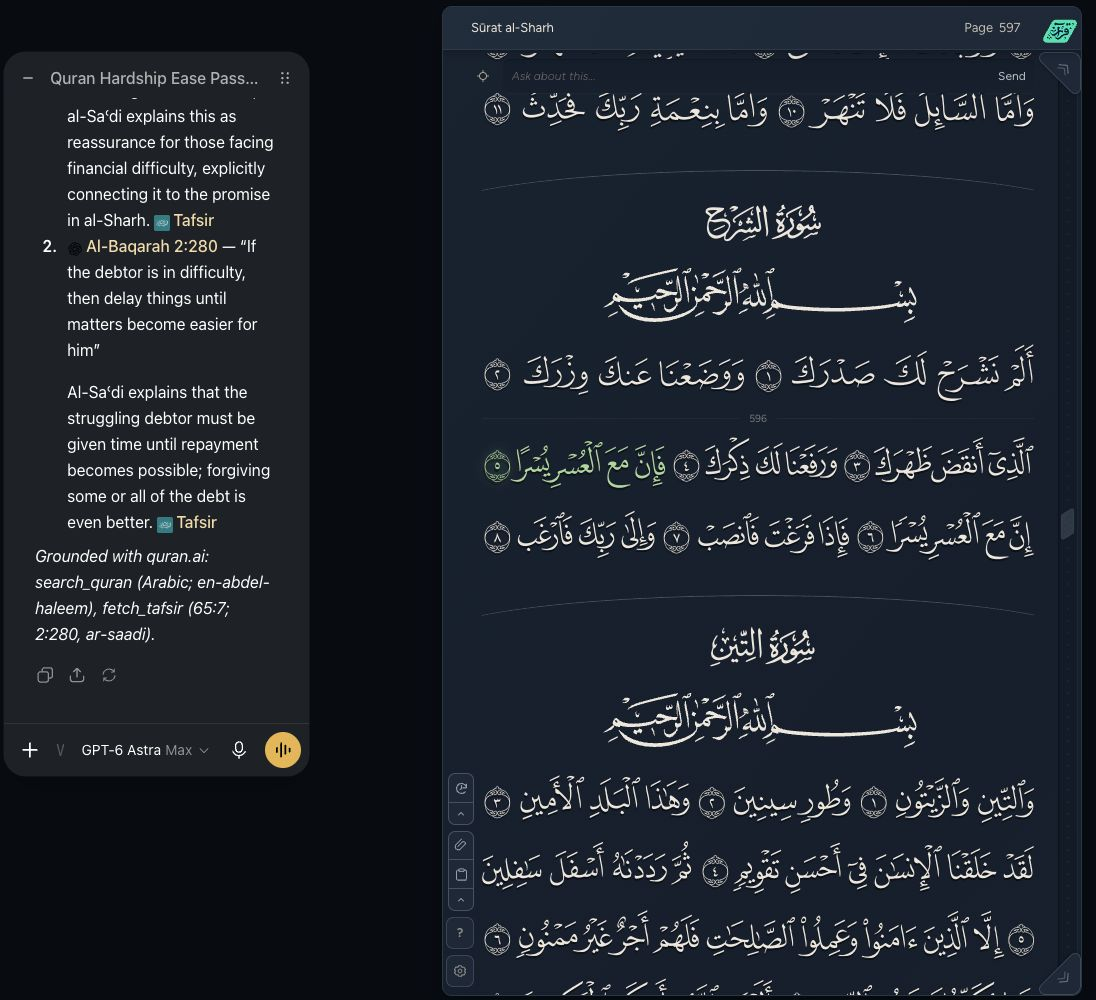
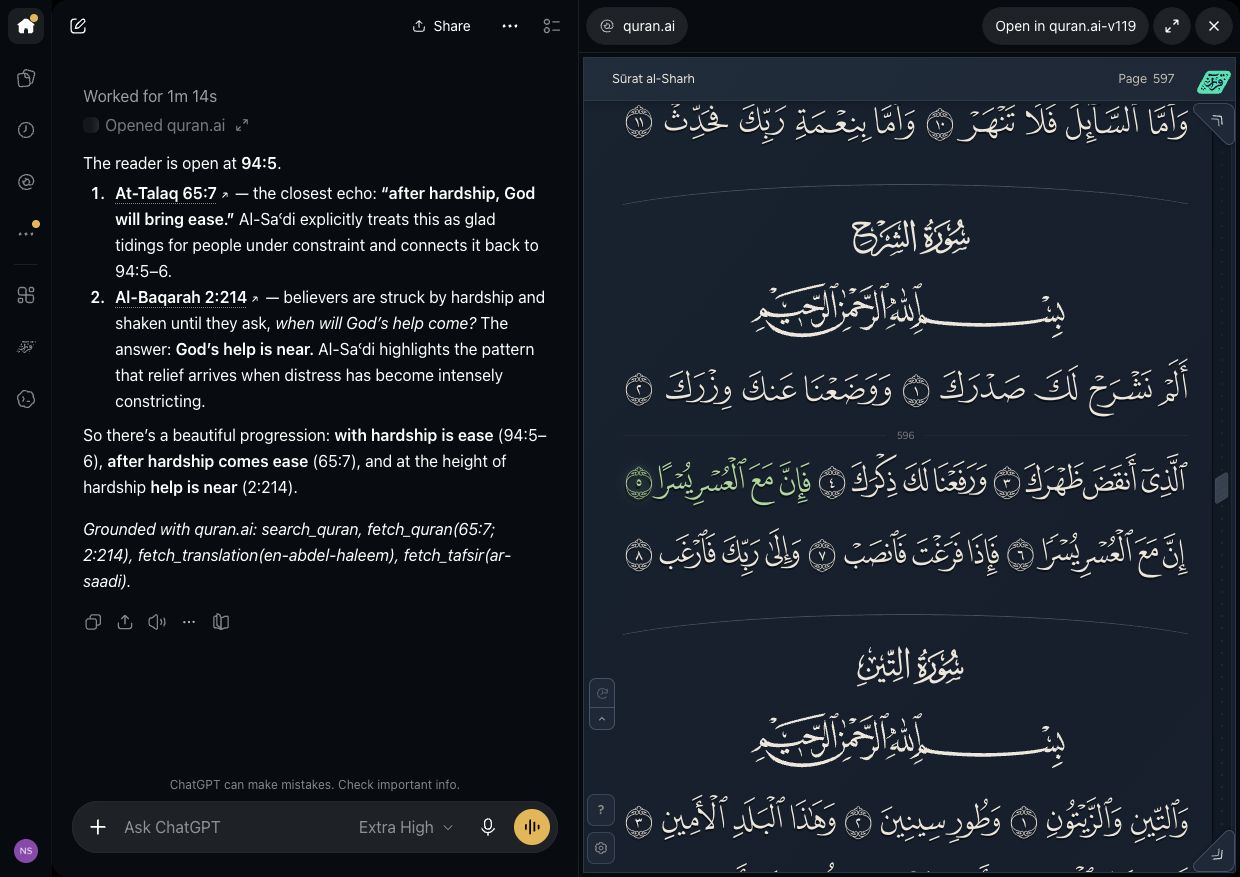
Show study conversations beside the Quran reader
Co-authored with AI: GPT-6

diff --git a/index.html b/index.html
@@ -100,11 +100,11 @@
           <p>Why does this word take that ending? How does <span class="scholar-name">Ibn Ashur</span> explain the passage’s structure? Where else does the Quran tell this part of Musa’s story, and what changes in the telling? Start with your question and study it in depth.</p>
           <a class="button button-documentation" href="https://mcp.quran.ai/documentation">Read the MCP documentation</a>
         </div>
-        <a class="demonstration-link demonstration-link-light" href="/branding/interactive-study-chatgpt-light.jpg?v=20261004-v354" target="_blank" rel="noopener" aria-label="View the mushaf and conversation screenshot at full size">
-          <img class="demonstration-photo" src="/branding/interactive-study-chatgpt-light.jpg?v=20261004-v354" alt="ChatGPT’s sourced answer about hardship and ease beside the mushaf, with ayah 94:5 selected." width="1096" height="1000" loading="lazy">
+        <a class="demonstration-link demonstration-link-light" href="/branding/interactive-study-chatgpt-light.jpg?v=split20261004" target="_blank" rel="noopener" aria-label="View the mushaf and conversation screenshot at full size">
+          <img class="demonstration-photo" src="/branding/interactive-study-chatgpt-light.jpg?v=split20261004" alt="ChatGPT’s answer linking hardship and ease in 65:7 and 2:214 beside the full-height reader, with ayah 94:5 highlighted." width="1240" height="877" loading="lazy">
         </a>
-        <a class="demonstration-link demonstration-link-dark" href="/branding/interactive-study-chatgpt-dark.jpg?v=20261004-v354" target="_blank" rel="noopener" aria-label="View the mushaf and conversation screenshot at full size">
-          <img class="demonstration-photo" src="/branding/interactive-study-chatgpt-dark.jpg?v=20261004-v354" alt="ChatGPT’s sourced answer about hardship and ease beside the mushaf, with ayah 94:5 selected." width="1096" height="1000" loading="lazy">
+        <a class="demonstration-link demonstration-link-dark" href="/branding/interactive-study-chatgpt-dark.jpg?v=split20261004" target="_blank" rel="noopener" aria-label="View the mushaf and conversation screenshot at full size">
+          <img class="demonstration-photo" src="/branding/interactive-study-chatgpt-dark.jpg?v=split20261004" alt="ChatGPT’s answer linking hardship and ease in 65:7 and 2:214 beside the full-height reader, with ayah 94:5 highlighted." width="1240" height="877" loading="lazy">
         </a>
         <div class="demonstration-details">
           <p class="demonstration-caption">Asked: “Where else does the Quran connect hardship and ease?” The response uses Abdel Haleem’s translation and al-Sa‘di’s tafsir, with related ayah links back to the reader. Open the image to read it at full size.</p>
